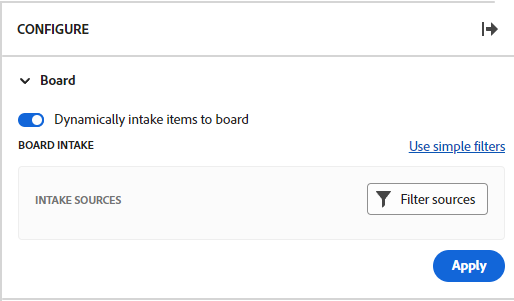
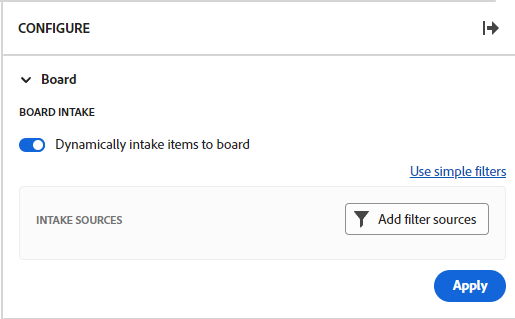
add filter sources

diff --git a/help/quicksilver/agile/use-boards-agile-planning-tools/add-intake-column-to-board.md b/help/quicksilver/agile/use-boards-agile-planning-tools/add-intake-column-to-board.md
@@ -84,7 +84,7 @@ You must have the following access to perform the steps in this article:
    The intake column is added on the left of the board. It remains blank until you apply filters to it.
 
 1. Click [!UICONTROL **Use advanced filters**].
-1. Click **[!UICONTROL Filter sources]** and select **[!UICONTROL Tasks]** or **[!UICONTROL Issues]**.
+1. Click **[!UICONTROL Add filter sources]** and select **[!UICONTROL Tasks]** or **[!UICONTROL Issues]**.
 
    ![Intake column advanced filter options](assets/intake-column-advanced-filters1.png)
 
